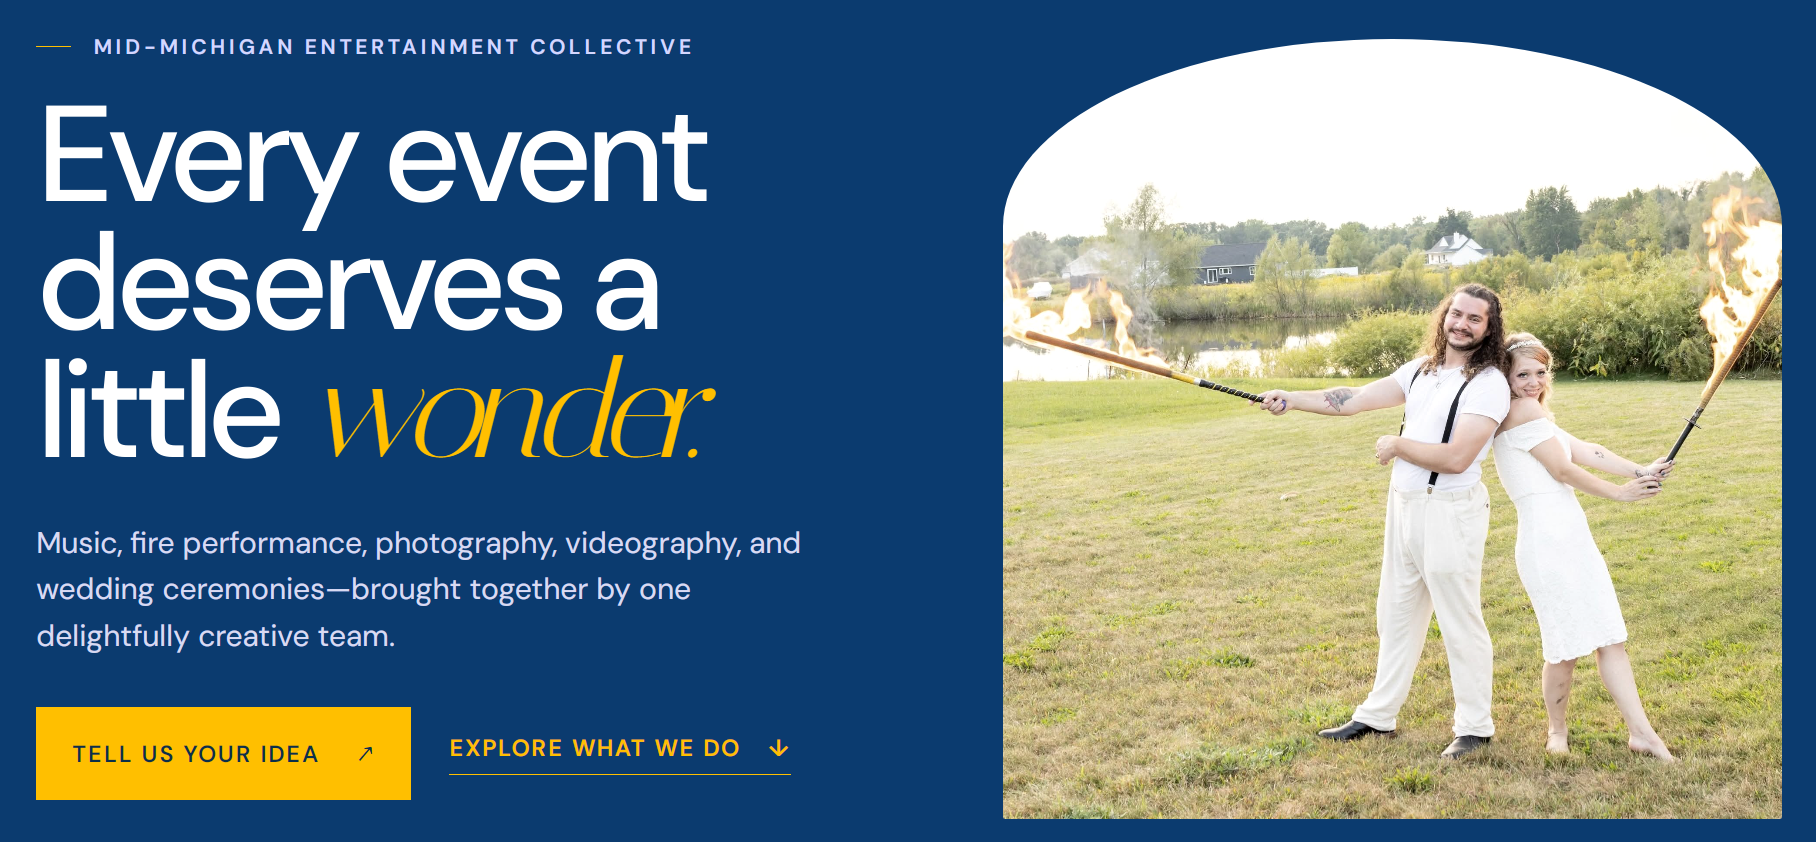
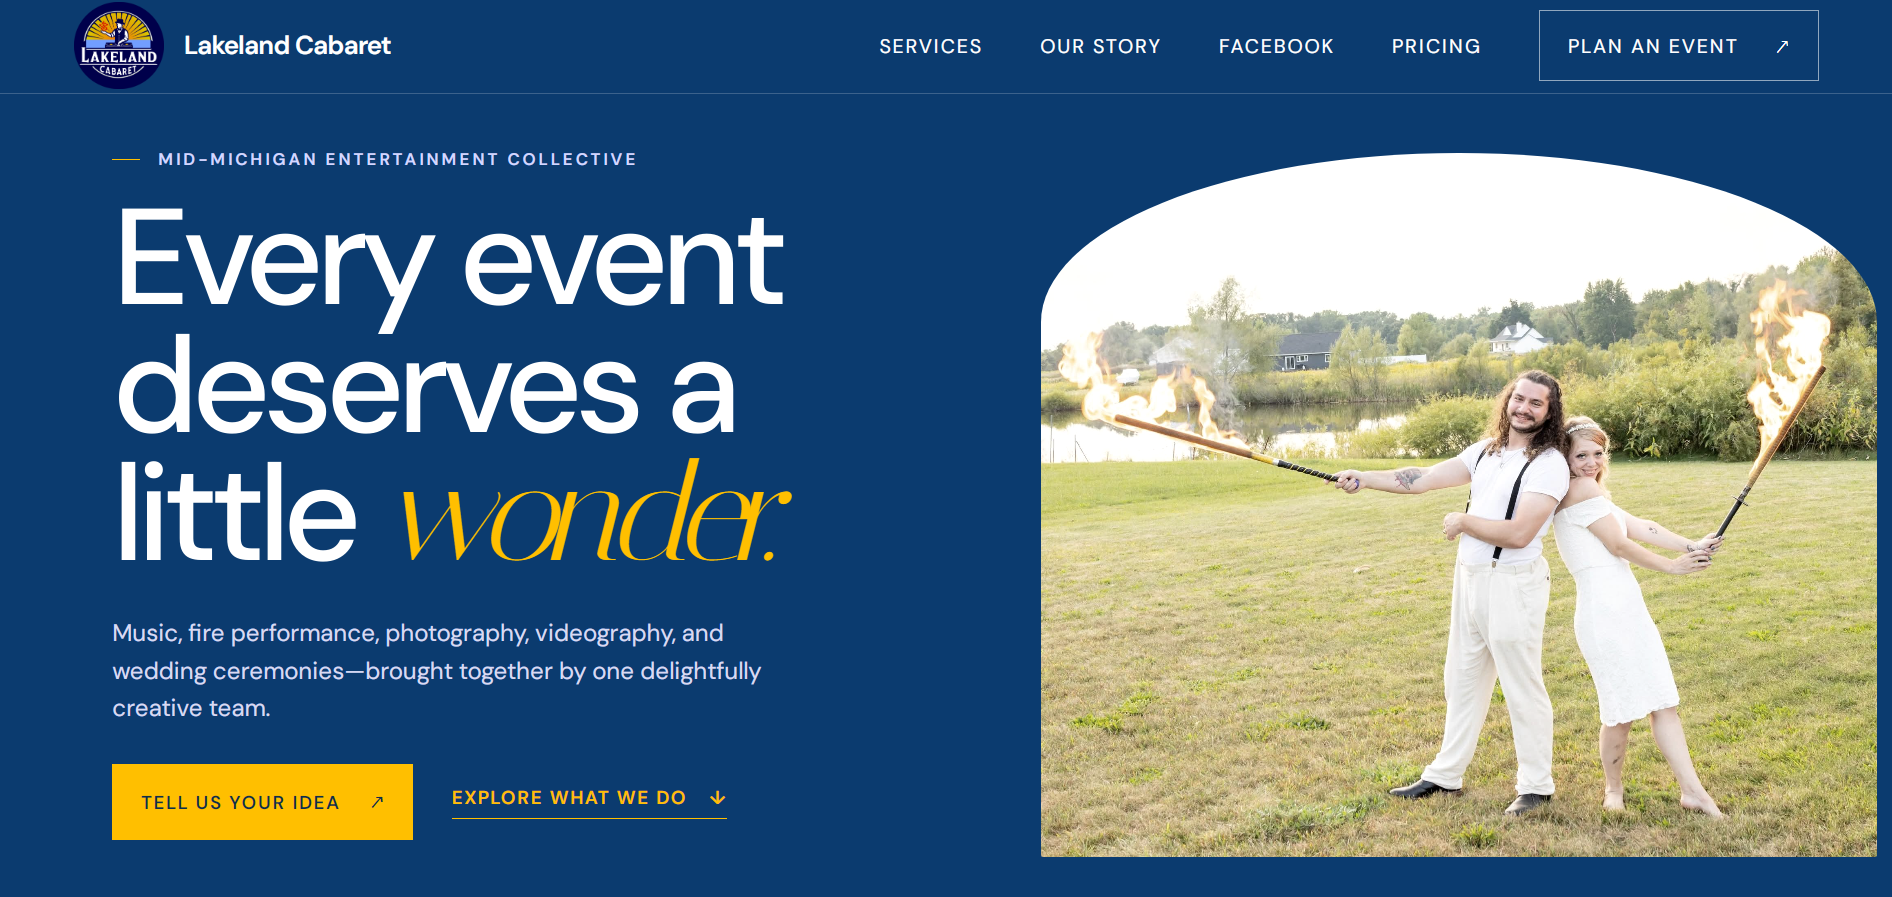
Refresh Lakeland Cabaret site preview

diff --git a/src/app/pages/lakeland-cabaret/lakeland-cabaret.html b/src/app/pages/lakeland-cabaret/lakeland-cabaret.html
@@ -17,7 +17,7 @@
         </p>
         <div class="hero-actions">
           <a class="button button-primary" href="https://lakelandcabaret.com/" target="_blank" rel="noopener noreferrer">Visit live site</a>
-          <a appProjectsLink class="button button-secondary" href="/#projects">Browse projects</a>
+          <a class="button button-secondary" href="https://www.facebook.com/people/Lakeland-Cabaret/100087638987216/" target="_blank" rel="noopener noreferrer">Facebook</a>
         </div>
       </div>
 
@@ -91,6 +91,7 @@
       <div><p class="section-label">Explore the work</p><h2>See the business experience in production.</h2></div>
       <div class="project-links">
         <a class="button button-primary" href="https://lakelandcabaret.com/" target="_blank" rel="noopener noreferrer">Visit Lakeland Cabaret</a>
+        <a class="button button-secondary" href="https://www.facebook.com/people/Lakeland-Cabaret/100087638987216/" target="_blank" rel="noopener noreferrer">Facebook</a>
         <a class="button button-secondary" href="https://github.com/JohnBieniek/LakelandCabaretUI" target="_blank" rel="noopener noreferrer">View code</a>
       </div>
     </section>

diff --git a/src/app/pages/lakeland-cabaret/lakeland-cabaret.ts b/src/app/pages/lakeland-cabaret/lakeland-cabaret.ts
@@ -3,12 +3,11 @@ import {
   BreadcrumbItem,
   BreadcrumbsComponent,
 } from '../../shared/breadcrumbs/breadcrumbs-component';
-import { ProjectsLink } from '../../shared/projects-link/projects-link';
 
 @Component({
   selector: 'app-lakeland-cabaret',
   standalone: true,
-  imports: [BreadcrumbsComponent, ProjectsLink],
+  imports: [BreadcrumbsComponent],
   templateUrl: './lakeland-cabaret.html',
   styleUrl: './lakeland-cabaret.css',
 })
